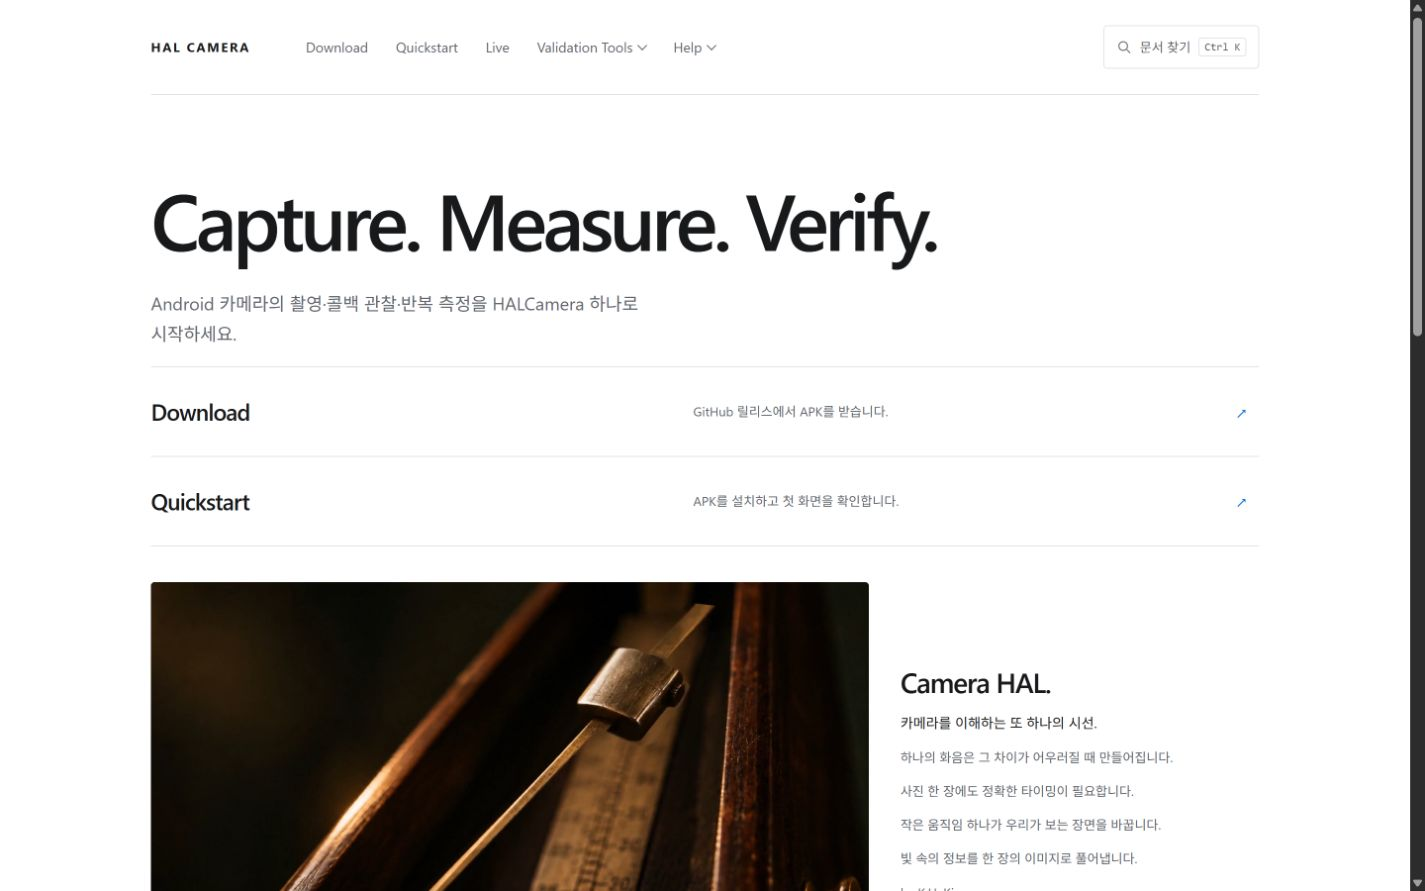
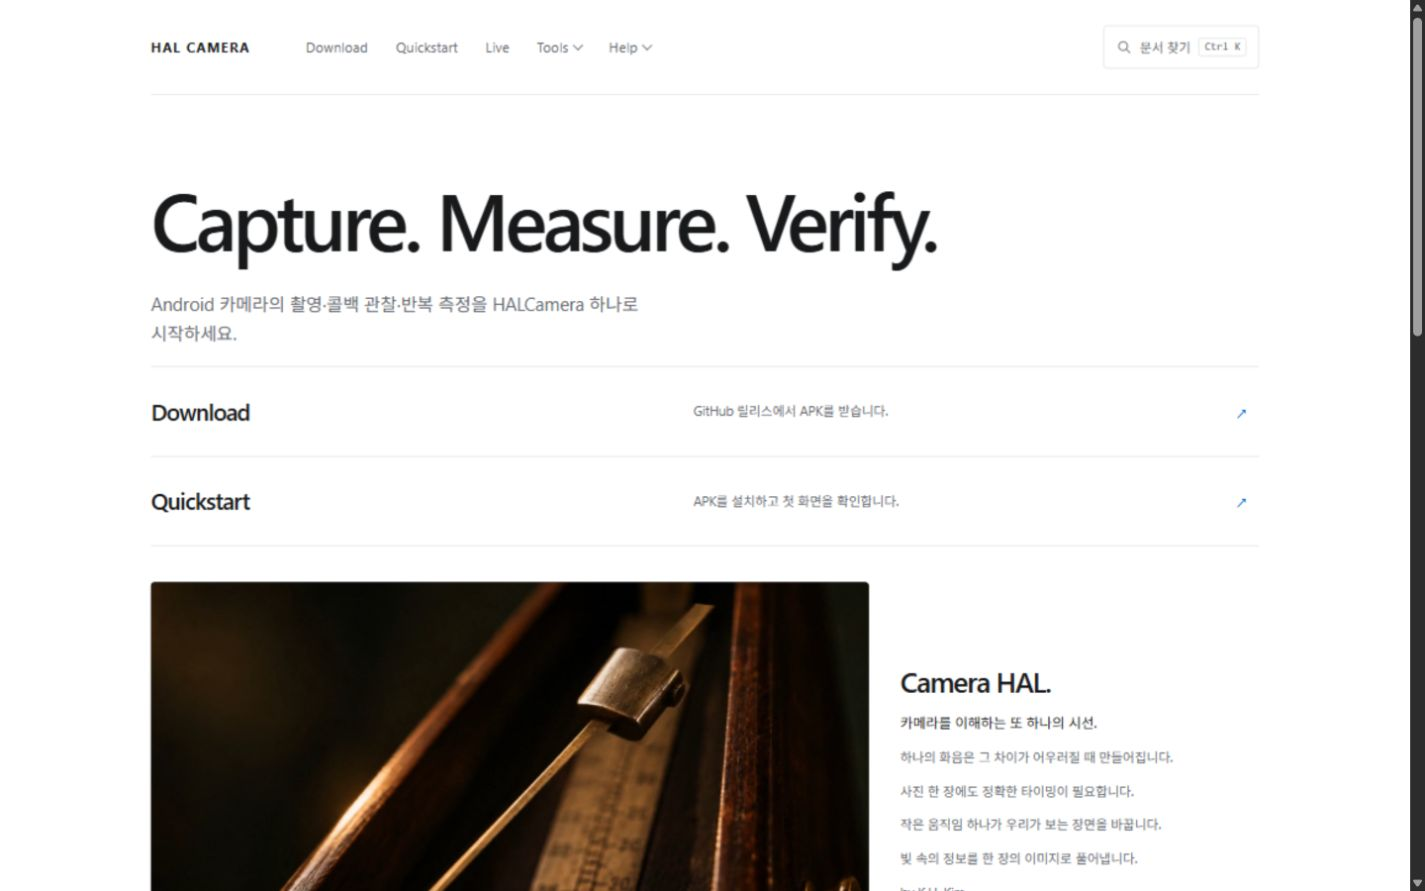
Shorten validation menu label to Tools

diff --git a/docs/automation.html b/docs/automation.html
@@ -24,7 +24,7 @@
       <a href="./automation.html" aria-current="page">Automation</a>
       <a href="./troubleshooting.html">Troubleshooting</a>
     </nav>
-    <script src="./assets/navigation-v2.js"></script>
+    <script src="./assets/navigation-v3.js"></script>
     <button class="search-open" type="button" aria-haspopup="dialog" aria-controls="search-dialog" hidden><svg viewBox="0 0 24 24" width="16" height="16" fill="none" stroke="currentColor" stroke-width="1.6" aria-hidden="true"><circle cx="10.5" cy="10.5" r="6.5"/><path d="m16 16 5 5"/></svg>문서 찾기 <kbd>Ctrl K</kbd></button>
   </header>
   <main id="main-content" class="document">

diff --git a/docs/troubleshooting.html b/docs/troubleshooting.html
@@ -24,7 +24,7 @@
       <a href="./automation.html">Automation</a>
       <a href="./troubleshooting.html" aria-current="page">Troubleshooting</a>
     </nav>
-    <script src="./assets/navigation-v2.js"></script>
+    <script src="./assets/navigation-v3.js"></script>
     <button class="search-open" type="button" aria-haspopup="dialog" aria-controls="search-dialog" hidden><svg viewBox="0 0 24 24" width="16" height="16" fill="none" stroke="currentColor" stroke-width="1.6" aria-hidden="true"><circle cx="10.5" cy="10.5" r="6.5"/><path d="m16 16 5 5"/></svg>문서 찾기 <kbd>Ctrl K</kbd></button>
   </header>
   <main id="main-content" class="document">

diff --git a/docs/_inputs/decisions.html b/docs/_inputs/decisions.html
@@ -24,7 +24,7 @@
       <a href="../automation.html">Automation</a>
       <a href="../troubleshooting.html">Troubleshooting</a>
     </nav>
-    <script src="../assets/navigation-v2.js"></script>
+    <script src="../assets/navigation-v3.js"></script>
     <button class="search-open" type="button" aria-haspopup="dialog" aria-controls="search-dialog" hidden><svg viewBox="0 0 24 24" width="16" height="16" fill="none" stroke="currentColor" stroke-width="1.6" aria-hidden="true"><circle cx="10.5" cy="10.5" r="6.5"/><path d="m16 16 5 5"/></svg>문서 찾기 <kbd>Ctrl K</kbd></button>
   </header>
   <main id="main-content" class="document">

diff --git a/docs/architecture.html b/docs/architecture.html
@@ -24,7 +24,7 @@
       <a href="./automation.html">Automation</a>
       <a href="./troubleshooting.html">Troubleshooting</a>
     </nav>
-    <script src="./assets/navigation-v2.js"></script>
+    <script src="./assets/navigation-v3.js"></script>
     <button class="search-open" type="button" aria-haspopup="dialog" aria-controls="search-dialog" hidden><svg viewBox="0 0 24 24" width="16" height="16" fill="none" stroke="currentColor" stroke-width="1.6" aria-hidden="true"><circle cx="10.5" cy="10.5" r="6.5"/><path d="m16 16 5 5"/></svg>문서 찾기 <kbd>Ctrl K</kbd></button>
   </header>
   <main id="main-content" class="document">

diff --git a/docs/benchmark.html b/docs/benchmark.html
@@ -24,7 +24,7 @@
       <a href="./automation.html">Automation</a>
       <a href="./troubleshooting.html">Troubleshooting</a>
     </nav>
-    <script src="./assets/navigation-v2.js"></script>
+    <script src="./assets/navigation-v3.js"></script>
     <button class="search-open" type="button" aria-haspopup="dialog" aria-controls="search-dialog" hidden><svg viewBox="0 0 24 24" width="16" height="16" fill="none" stroke="currentColor" stroke-width="1.6" aria-hidden="true"><circle cx="10.5" cy="10.5" r="6.5"/><path d="m16 16 5 5"/></svg>문서 찾기 <kbd>Ctrl K</kbd></button>
   </header>
   <main id="main-content" class="document">

diff --git a/docs/building.html b/docs/building.html
@@ -24,7 +24,7 @@
       <a href="./automation.html">Automation</a>
       <a href="./troubleshooting.html">Troubleshooting</a>
     </nav>
-    <script src="./assets/navigation-v2.js"></script>
+    <script src="./assets/navigation-v3.js"></script>
     <button class="search-open" type="button" aria-haspopup="dialog" aria-controls="search-dialog" hidden><svg viewBox="0 0 24 24" width="16" height="16" fill="none" stroke="currentColor" stroke-width="1.6" aria-hidden="true"><circle cx="10.5" cy="10.5" r="6.5"/><path d="m16 16 5 5"/></svg>문서 찾기 <kbd>Ctrl K</kbd></button>
   </header>
   <main id="main-content" class="document">

diff --git a/docs/callback.html b/docs/callback.html
@@ -24,7 +24,7 @@
       <a href="./automation.html">Automation</a>
       <a href="./troubleshooting.html">Troubleshooting</a>
     </nav>
-    <script src="./assets/navigation-v2.js"></script>
+    <script src="./assets/navigation-v3.js"></script>
     <button class="search-open" type="button" aria-haspopup="dialog" aria-controls="search-dialog" hidden><svg viewBox="0 0 24 24" width="16" height="16" fill="none" stroke="currentColor" stroke-width="1.6" aria-hidden="true"><circle cx="10.5" cy="10.5" r="6.5"/><path d="m16 16 5 5"/></svg>문서 찾기 <kbd>Ctrl K</kbd></button>
   </header>
   <main id="main-content" class="document">

diff --git a/docs/cli.html b/docs/cli.html
@@ -24,7 +24,7 @@
       <a href="./automation.html">Automation</a>
       <a href="./troubleshooting.html">Troubleshooting</a>
     </nav>
-    <script src="./assets/navigation-v2.js"></script>
+    <script src="./assets/navigation-v3.js"></script>
     <button class="search-open" type="button" aria-haspopup="dialog" aria-controls="search-dialog" hidden><svg viewBox="0 0 24 24" width="16" height="16" fill="none" stroke="currentColor" stroke-width="1.6" aria-hidden="true"><circle cx="10.5" cy="10.5" r="6.5"/><path d="m16 16 5 5"/></svg>문서 찾기 <kbd>Ctrl K</kbd></button>
   </header>
   <main id="main-content" class="document">

diff --git a/docs/coding-agents.html b/docs/coding-agents.html
@@ -24,7 +24,7 @@
       <a href="./automation.html">Automation</a>
       <a href="./troubleshooting.html">Troubleshooting</a>
     </nav>
-    <script src="./assets/navigation-v2.js"></script>
+    <script src="./assets/navigation-v3.js"></script>
     <button class="search-open" type="button" aria-haspopup="dialog" aria-controls="search-dialog" hidden><svg viewBox="0 0 24 24" width="16" height="16" fill="none" stroke="currentColor" stroke-width="1.6" aria-hidden="true"><circle cx="10.5" cy="10.5" r="6.5"/><path d="m16 16 5 5"/></svg>문서 찾기 <kbd>Ctrl K</kbd></button>
   </header>
   <main id="main-content" class="document">

diff --git a/docs/contributing.html b/docs/contributing.html
@@ -24,7 +24,7 @@
       <a href="./automation.html">Automation</a>
       <a href="./troubleshooting.html">Troubleshooting</a>
     </nav>
-    <script src="./assets/navigation-v2.js"></script>
+    <script src="./assets/navigation-v3.js"></script>
     <button class="search-open" type="button" aria-haspopup="dialog" aria-controls="search-dialog" hidden><svg viewBox="0 0 24 24" width="16" height="16" fill="none" stroke="currentColor" stroke-width="1.6" aria-hidden="true"><circle cx="10.5" cy="10.5" r="6.5"/><path d="m16 16 5 5"/></svg>문서 찾기 <kbd>Ctrl K</kbd></button>
   </header>
   <main id="main-content" class="document">

diff --git a/docs/cts.html b/docs/cts.html
@@ -24,7 +24,7 @@
       <a href="./automation.html">Automation</a>
       <a href="./troubleshooting.html">Troubleshooting</a>
     </nav>
-    <script src="./assets/navigation-v2.js"></script>
+    <script src="./assets/navigation-v3.js"></script>
     <button class="search-open" type="button" aria-haspopup="dialog" aria-controls="search-dialog" hidden><svg viewBox="0 0 24 24" width="16" height="16" fill="none" stroke="currentColor" stroke-width="1.6" aria-hidden="true"><circle cx="10.5" cy="10.5" r="6.5"/><path d="m16 16 5 5"/></svg>문서 찾기 <kbd>Ctrl K</kbd></button>
   </header>
   <main id="main-content" class="document">

diff --git a/docs/decisions.html b/docs/decisions.html
@@ -24,7 +24,7 @@
       <a href="./automation.html">Automation</a>
       <a href="./troubleshooting.html">Troubleshooting</a>
     </nav>
-    <script src="./assets/navigation-v2.js"></script>
+    <script src="./assets/navigation-v3.js"></script>
     <button class="search-open" type="button" aria-haspopup="dialog" aria-controls="search-dialog" hidden><svg viewBox="0 0 24 24" width="16" height="16" fill="none" stroke="currentColor" stroke-width="1.6" aria-hidden="true"><circle cx="10.5" cy="10.5" r="6.5"/><path d="m16 16 5 5"/></svg>문서 찾기 <kbd>Ctrl K</kbd></button>
   </header>
   <main id="main-content" class="document">
